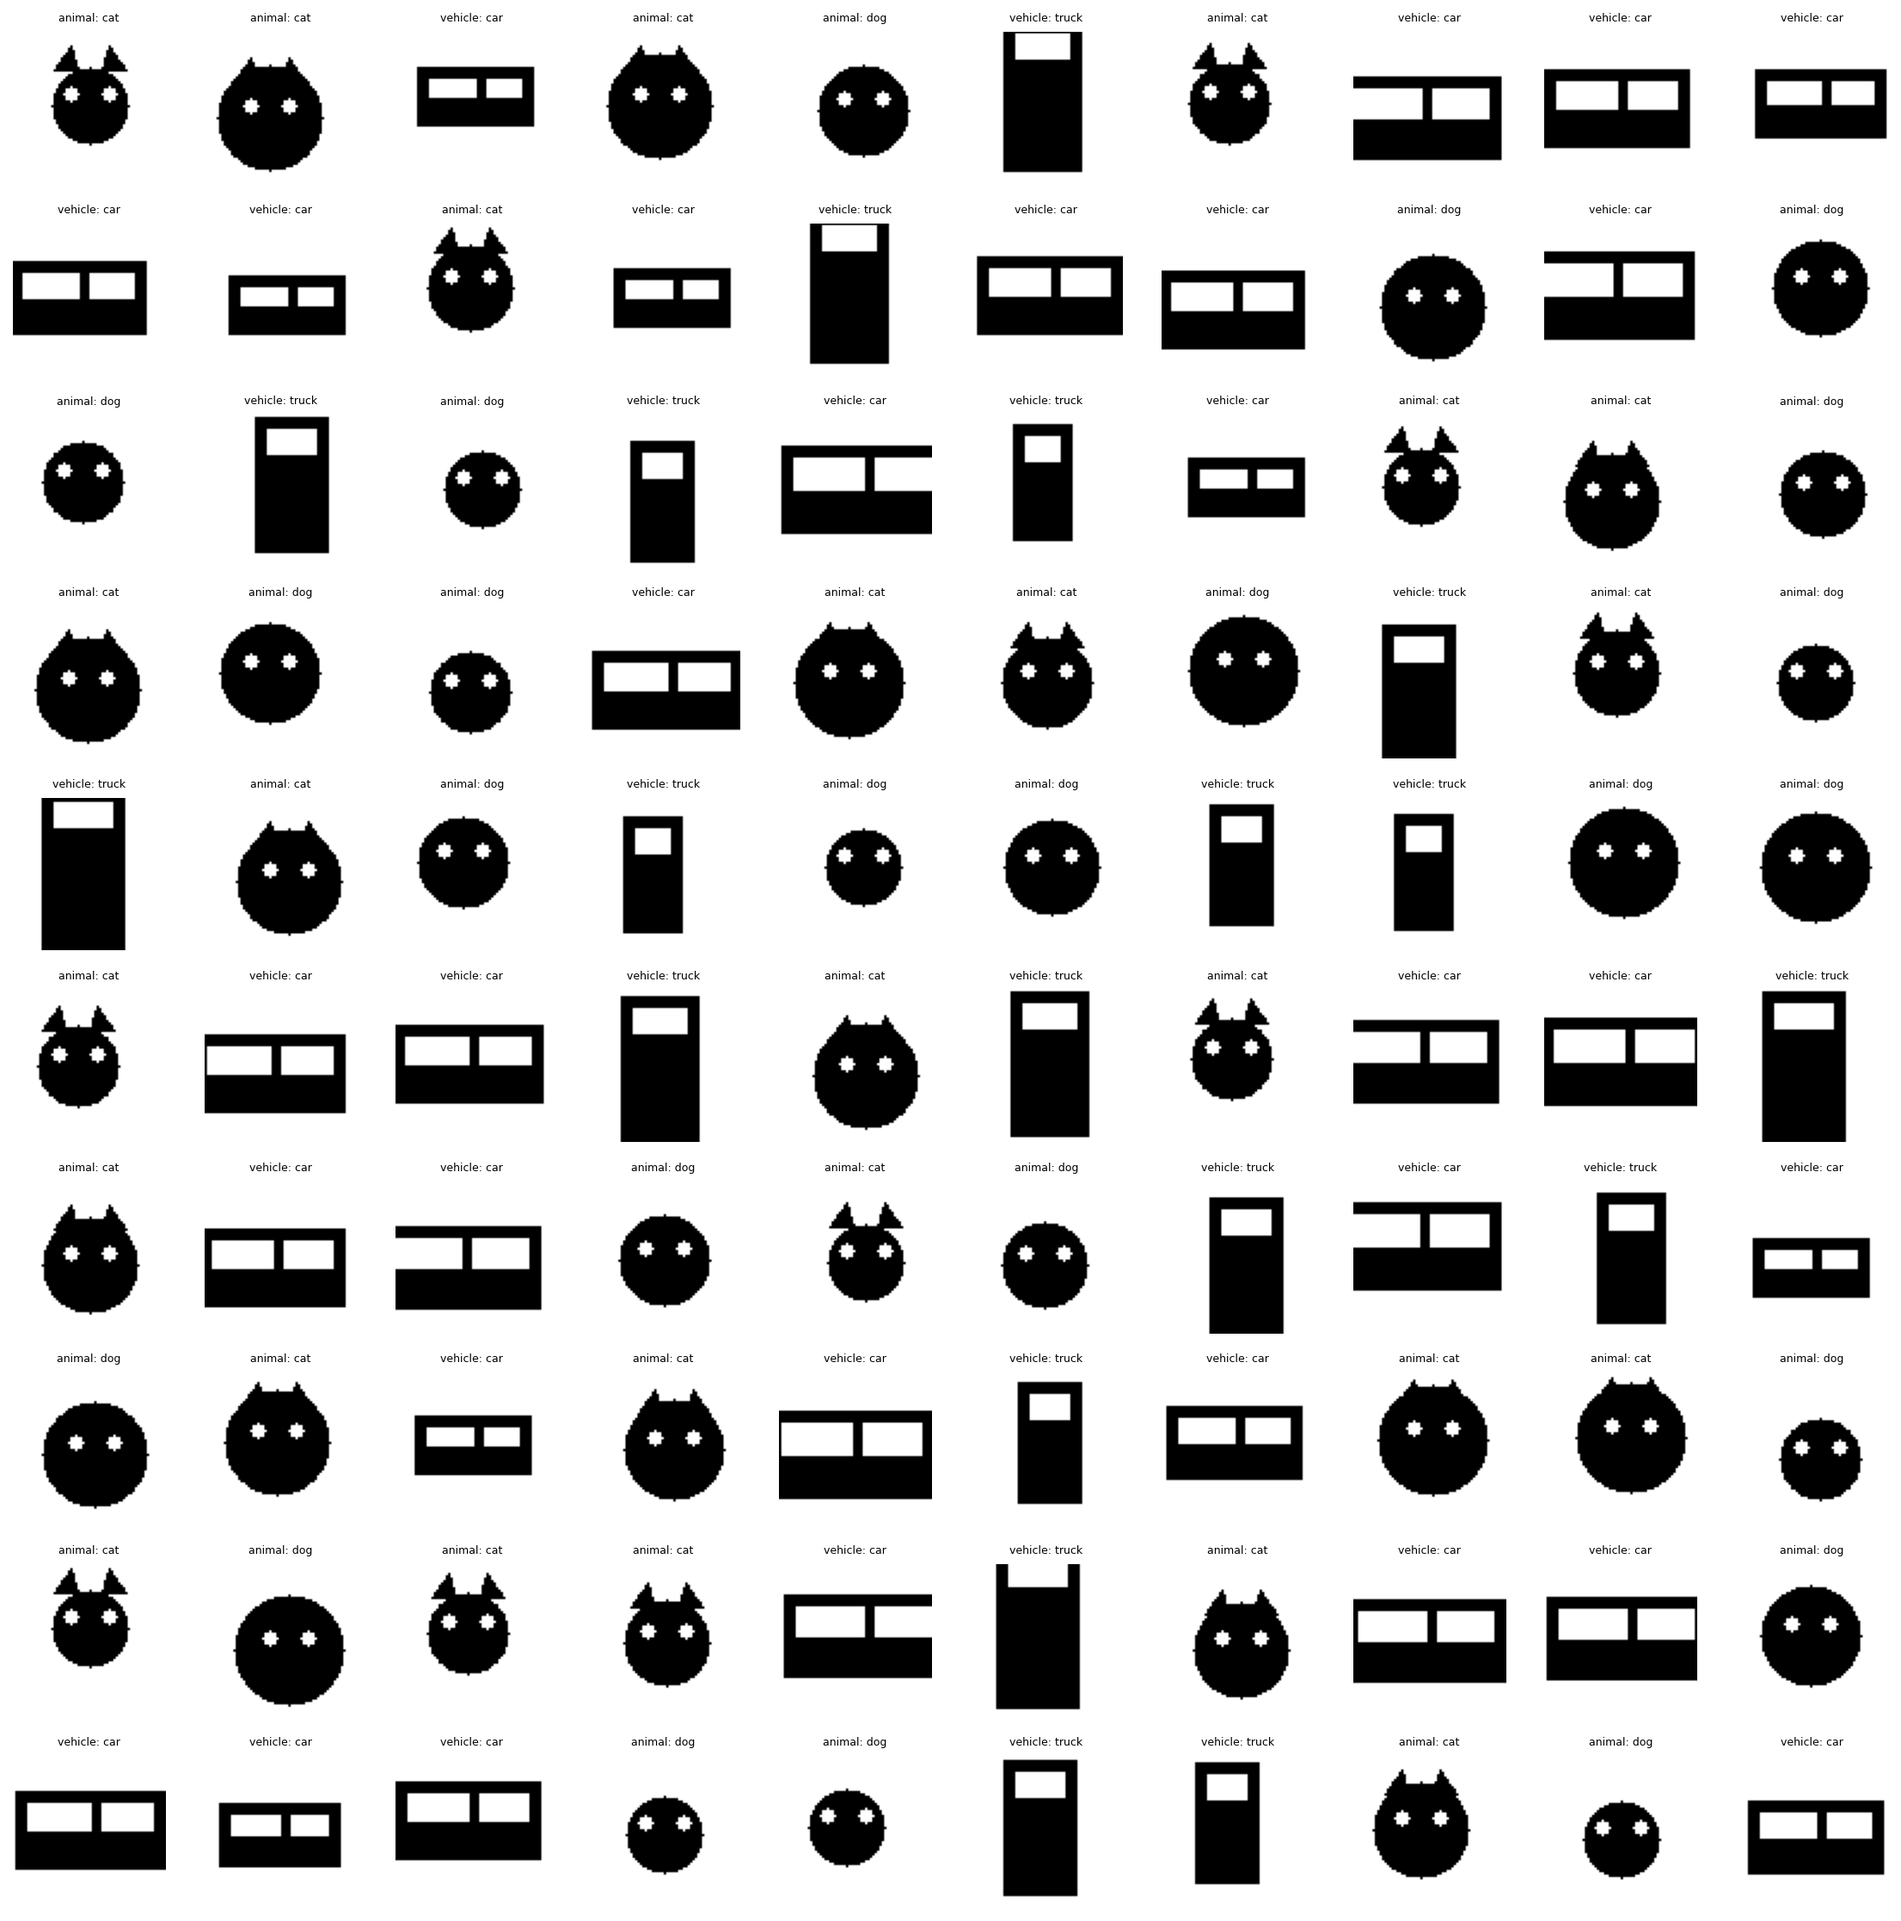
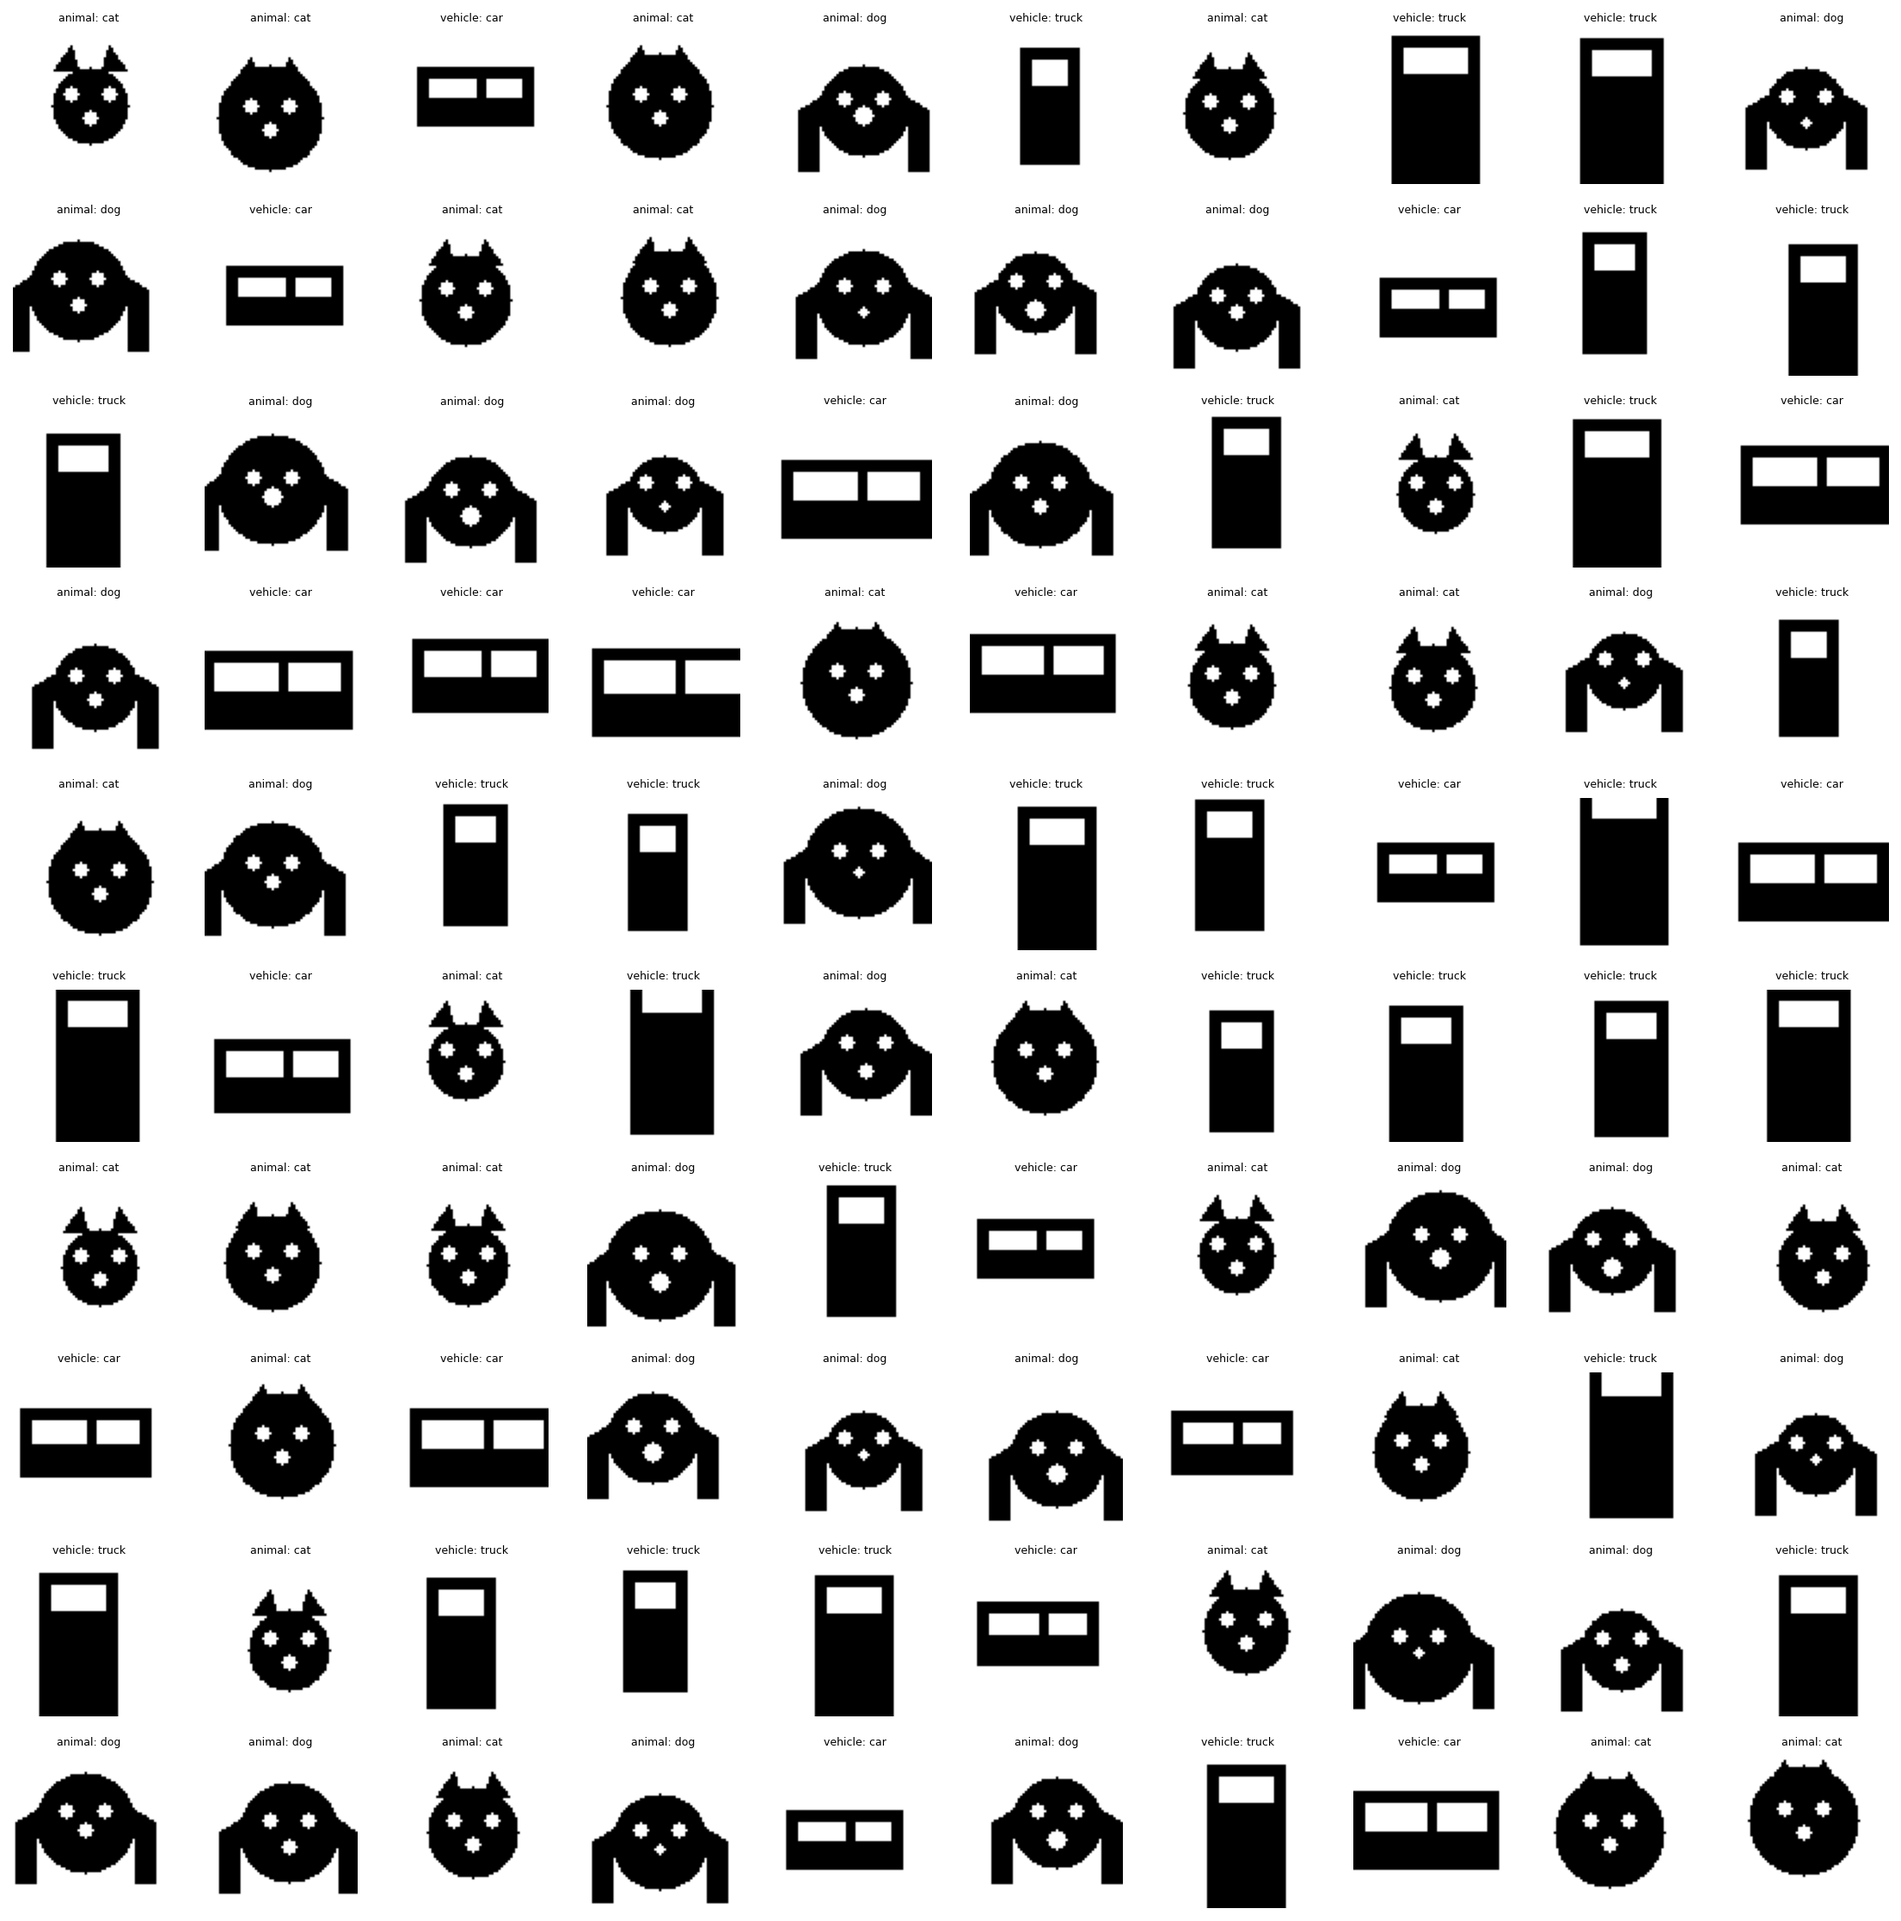
Add dog variety: noses and ears

diff --git a/data/synthetic_dataset.py b/data/synthetic_dataset.py
@@ -85,6 +85,8 @@ class SyntheticHierarchicalDataset(Dataset):
                 "jitter_x": np.random.uniform(-5, 5),
                 "jitter_y": np.random.uniform(-5, 5),
                 "scale": np.random.uniform(0.8, 1.2),
+                "nose_offset_y": np.random.uniform(-3, 3) if z1 == "dog" else 0,  # Dogs have varying nose position
+                "nose_size": np.random.uniform(2, 5) if z1 == "dog" else 3,  # Dogs have varying nose size
             }
 
             self.samples.append(
@@ -125,12 +127,41 @@ class SyntheticHierarchicalDataset(Dataset):
 
         # Create shape based on z1
         if z1 == "dog":
+            # Big floppy ears (like springer spaniels) - draw first so face overlaps
+            ear_width = 8
+            ear_height = 25
+            # Left ear
+            left_ear_pts = np.array(
+                [
+                    [center_x - base_size, center_y - 5],
+                    [center_x - base_size - ear_width, center_y],
+                    [center_x - base_size - ear_width, center_y + ear_height],
+                    [center_x - base_size, center_y + ear_height],
+                ],
+                np.int32,
+            )
+            cv2.fillPoly(img, [left_ear_pts], (0, 0, 0))
+            # Right ear
+            right_ear_pts = np.array(
+                [
+                    [center_x + base_size, center_y - 5],
+                    [center_x + base_size + ear_width, center_y],
+                    [center_x + base_size + ear_width, center_y + ear_height],
+                    [center_x + base_size, center_y + ear_height],
+                ],
+                np.int32,
+            )
+            cv2.fillPoly(img, [right_ear_pts], (0, 0, 0))
             # Circle (dog face)
             radius = base_size
             cv2.circle(img, (center_x, center_y), radius, (0, 0, 0), -1)
             # Eyes
             cv2.circle(img, (center_x - 8, center_y - 5), 3, (255, 255, 255), -1)
             cv2.circle(img, (center_x + 8, center_y - 5), 3, (255, 255, 255), -1)
+            # White nose (varies in position and size)
+            nose_y = int(center_y + 5 + z0["nose_offset_y"])
+            nose_radius = int(z0["nose_size"])
+            cv2.circle(img, (center_x, nose_y), nose_radius, (255, 255, 255), -1)
 
         elif z1 == "cat":
             # Circle with triangular ears
@@ -158,6 +189,8 @@ class SyntheticHierarchicalDataset(Dataset):
             # Eyes
             cv2.circle(img, (center_x - 8, center_y - 5), 3, (255, 255, 255), -1)
             cv2.circle(img, (center_x + 8, center_y - 5), 3, (255, 255, 255), -1)
+            # White nose (fixed position and size)
+            cv2.circle(img, (center_x, center_y + 5), 3, (255, 255, 255), -1)
 
         elif z1 == "car":
             # Horizontal rectangle
